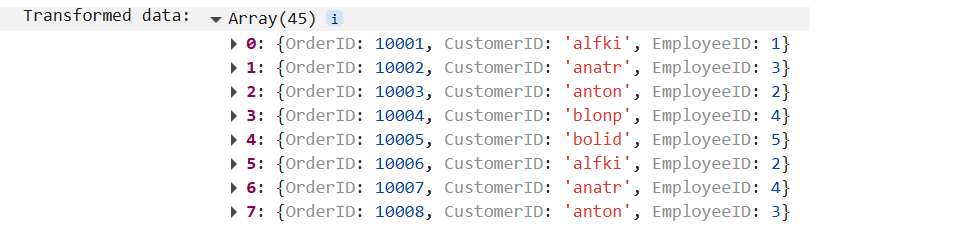
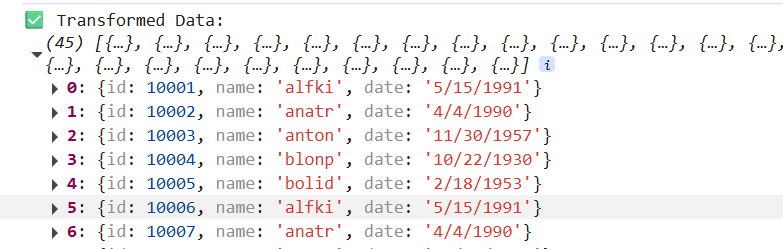
Integrated latest changes at 06-21-2025 10:30:27 AM

diff --git a/ej2-javascript/code-snippet/data/PostRequestMiddlewares-cs1/index.js b/ej2-javascript/code-snippet/data/PostRequestMiddlewares-cs1/index.js
@@ -1,4 +1,5 @@
-var tableBody = document.getElementById('datatable').querySelector('tbody');
+var tableBody = document.getElementById('datatable')?.querySelector('tbody');
+if (!tableBody) {throw new Error('Table body not found');}
 
 var SERVICE_URI = 'https://services.syncfusion.com/js/production/';
 
@@ -7,30 +8,61 @@ var dataManager = new ej.data.DataManager({
   adaptor: new ej.data.WebApiAdaptor()
 });
 
-dataManager.executeQuery(new ej.data.Query()).then(function (e) {
-  console.log('Original data:', e.result);
-  const transformed = e.result.map(item => ({
-    OrderID: item.OrderID,
-    CustomerID: item.CustomerID.toLowerCase(),
-    EmployeeID: item.EmployeeID
+function applyMiddlewareStack(stack) {
+  return async function (result) {
+    let modifiedResult = result;
+    for (const fn of stack) {
+      modifiedResult = await fn(modifiedResult);
+    }
+    return modifiedResult;
+  };
+}
+
+dataManager.applyPostRequestMiddlewares = applyMiddlewareStack([
+  async function (result) {
+    console.log('Original Data:', result);
+
+    if (!Array.isArray(result)) {
+      throw new Error('Expected result to be an array');
+    }
+
+    return result.map(function (item) {
+      return {
+        id: item.OrderID,
+        name: item.CustomerID ? item.CustomerID.toLowerCase() : '',
+        date: item.OrderDate
+          ? new Date(item.OrderDate).toLocaleDateString()
+          : 'N/A'
+      };
+    });
+  },
+
+  async function (result) {
+    console.log('Transformed Data:', result);
+    return result;
+  }
+]);
+
+dataManager.executeQuery(new ej.data.Query())
+  .then(function (e) {
+    e.result.forEach(function (data) {
+      var tr = document.createElement('tr');
+
+      var tdId = document.createElement('td');
+      tdId.textContent = data.id.toString();
+      tr.appendChild(tdId);
+
+      var tdName = document.createElement('td');
+      tdName.textContent = data.name;
+      tr.appendChild(tdName);
+
+      var tdDate = document.createElement('td');
+      tdDate.textContent = data.date;
+      tr.appendChild(tdDate);
+
+      tableBody.appendChild(tr);
+    });
   })
-  );
-  console.log('Transformed data:', transformed);
-
-  transformed.forEach(function(data) {
-    var tr = document.createElement('tr');
-    var tdOrder = document.createElement('td');
-    tdOrder.textContent = data.OrderID;
-    tr.appendChild(tdOrder);
-
-    var tdCustomer = document.createElement('td');
-    tdCustomer.textContent = data.CustomerID;
-    tr.appendChild(tdCustomer);
-
-    var tdEmployee = document.createElement('td');
-    tdEmployee.textContent = data.EmployeeID;
-    tr.appendChild(tdEmployee);
-
-    tableBody.appendChild(tr);
+  .catch(function (error) {
+    console.error('❌ Data fetch error:', error);
   });
-});

diff --git a/ej2-javascript/code-snippet/data/PostRequestMiddlewares-cs1/index.ts b/ej2-javascript/code-snippet/data/PostRequestMiddlewares-cs1/index.ts
@@ -1,9 +1,7 @@
 import { DataManager, Query, WebApiAdaptor, ReturnOption } from '@syncfusion/ej2-data';
 
 const tableBody = document.getElementById('datatable')?.querySelector('tbody');
-if (!tableBody) {
-  throw new Error('Table body not found');
-}
+if (!tableBody) throw new Error('Table body not found');
 
 const SERVICE_URI = 'https://services.syncfusion.com/js/production/';
 
@@ -12,35 +10,57 @@ const dataManager = new DataManager({
   adaptor: new WebApiAdaptor()
 });
 
+function applyMiddlewareStack(stack: ((result: any) => Promise<any>)[]) {
+  return async function (result: any) {
+    let modifiedResult = result;
+    for (const fn of stack) {
+      modifiedResult = await fn(modifiedResult);
+    }
+    return modifiedResult;
+  };
+}
+
+dataManager.applyPostRequestMiddlewares = applyMiddlewareStack([
+  async (result) => {
+    console.log('Original Data:', result);
+
+    if (!Array.isArray(result)) {
+      throw new Error('Expected result to be an array');
+    }
+
+    return result.map((item: any) => ({
+      id: item.OrderID,
+      name: item.CustomerID?.toLowerCase(),
+      date: item.OrderDate
+        ? new Date(item.OrderDate).toLocaleDateString()
+        : 'N/A'
+    }));
+  },
+
+  async (result) => {
+    console.log('Transformed Data:', result);
+    return result;
+  }
+]);
+
 dataManager.executeQuery(new Query()).then((e: ReturnOption) => {
-  console.log('Original data:', e.result);
-
-  const transformed = (e.result as any[])
-    .map(item => ({
-      OrderID: item.OrderID,
-      CustomerID: item.CustomerID.toLowerCase(),
-      EmployeeID: item.EmployeeID
-    })) 
-
-  console.log('Transformed data:', transformed);
-
-  transformed.forEach(data => {
+  (e.result as any[]).forEach(data => {
     const tr = document.createElement('tr');
 
-    const tdOrder = document.createElement('td');
-    tdOrder.textContent = data.OrderID.toString();
-    tr.appendChild(tdOrder);
+    const tdId = document.createElement('td');
+    tdId.textContent = data.id.toString();
+    tr.appendChild(tdId);
 
-    const tdCustomer = document.createElement('td');
-    tdCustomer.textContent = data.CustomerID;
-    tr.appendChild(tdCustomer);
+    const tdName = document.createElement('td');
+    tdName.textContent = data.name;
+    tr.appendChild(tdName);
 
-    const tdEmployee = document.createElement('td');
-    tdEmployee.textContent = data.EmployeeID.toString();
-    tr.appendChild(tdEmployee);
+    const tdDate = document.createElement('td');
+    tdDate.textContent = data.date;
+    tr.appendChild(tdDate);
 
     tableBody.appendChild(tr);
   });
 }).catch(error => {
-  console.error('Data fetch error:', error);
+  console.error('❌ Data fetch error:', error);
 });

diff --git a/ej2-javascript/code-snippet/data/PostRequestMiddlewares-cs1/ts/index.html b/ej2-javascript/code-snippet/data/PostRequestMiddlewares-cs1/ts/index.html
@@ -32,7 +32,7 @@
           <tr>
             <th>Order ID</th>
             <th>Customer ID</th>
-            <th>Employee ID</th>
+            <th>Date</th>
           </tr>
         </thead>
         <tbody></tbody>

diff --git a/ej2-javascript/code-snippet/data/PostRequestMiddlewares-cs1/js/index.html b/ej2-javascript/code-snippet/data/PostRequestMiddlewares-cs1/js/index.html
@@ -24,7 +24,7 @@
         <tr>
           <th>Order ID</th>
           <th>Customer ID</th>
-          <th>Employee ID</th>
+          <th>Date</th>
         </tr>
       </thead>
       <tbody></tbody>
